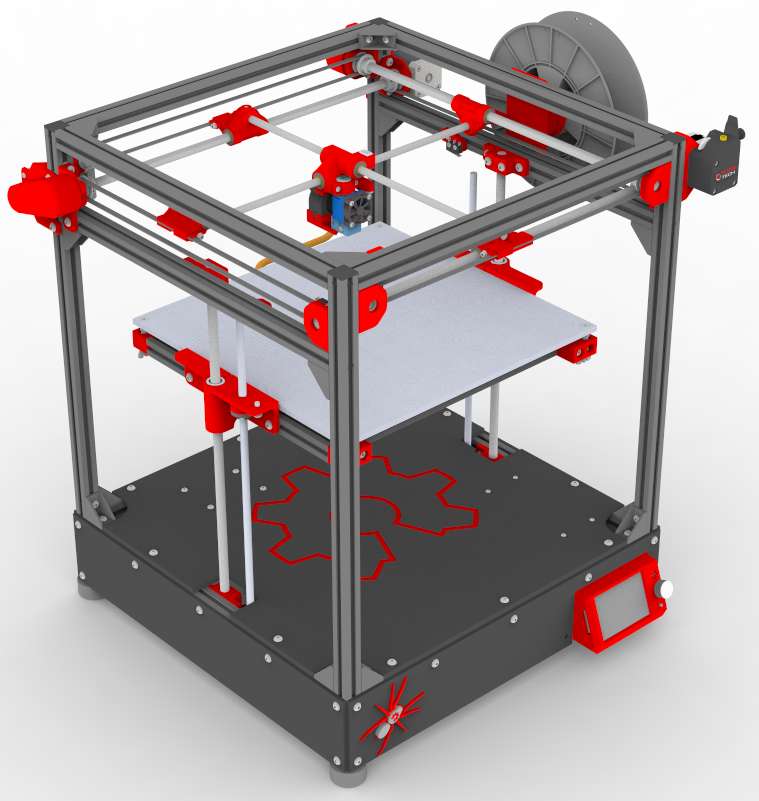
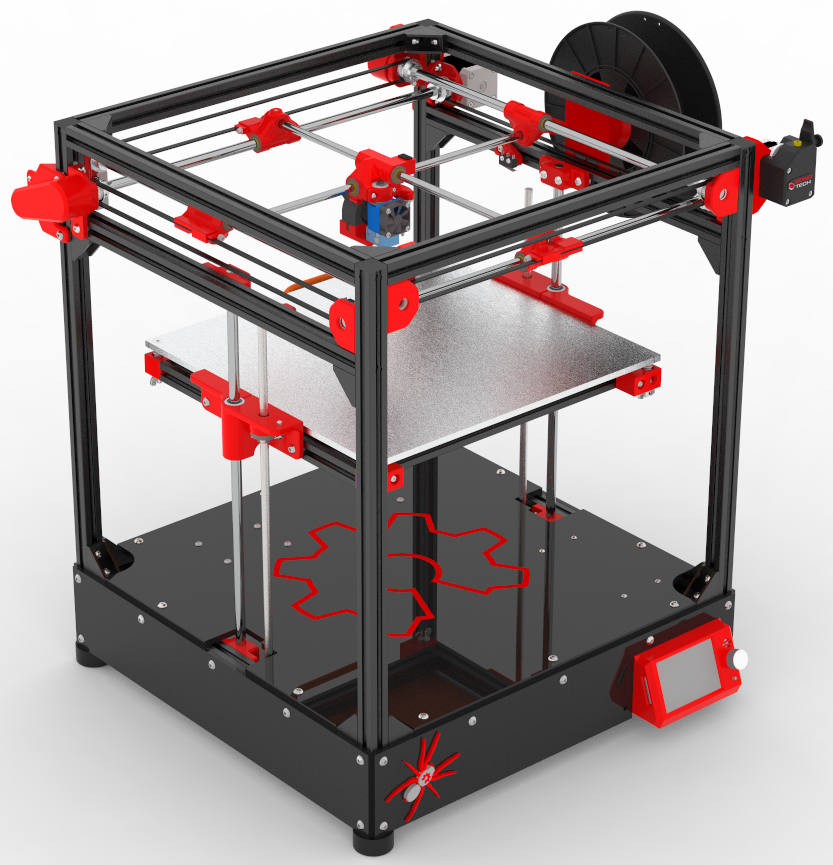
Updated Renders
Update Renders

diff --git a/README.md b/README.md
@@ -30,11 +30,11 @@ Documentation:
 
 BOM = https://github.com/eclsnowman/Eustathios-Spider-V2.5/raw/master/BOM/ES25%20BOM.xlsx
 
-Printable STL Parts = To Be Uploaded
+Printable STL Parts = https://github.com/eclsnowman/Eustathios-Spider-V2.5/tree/master/3D%20Models/STL
 
 Solidworks Files = https://github.com/eclsnowman/Eustathios-Spider-V2.5/tree/master/3D%20Models/Solidworks
 
-Other 3D model formats in 7zip due to github 50mb limit) = https://github.com/eclsnowman/Eustathios-Spider-V2.5/tree/master/3D%20Models
+Other 3D model formats in zip due to github file size limit) = https://github.com/eclsnowman/Eustathios-Spider-V2.5/tree/master/3D%20Models
 
 3D renders: https://github.com/eclsnowman/Eustathios-Spider-V2.5/tree/master/Images
 
